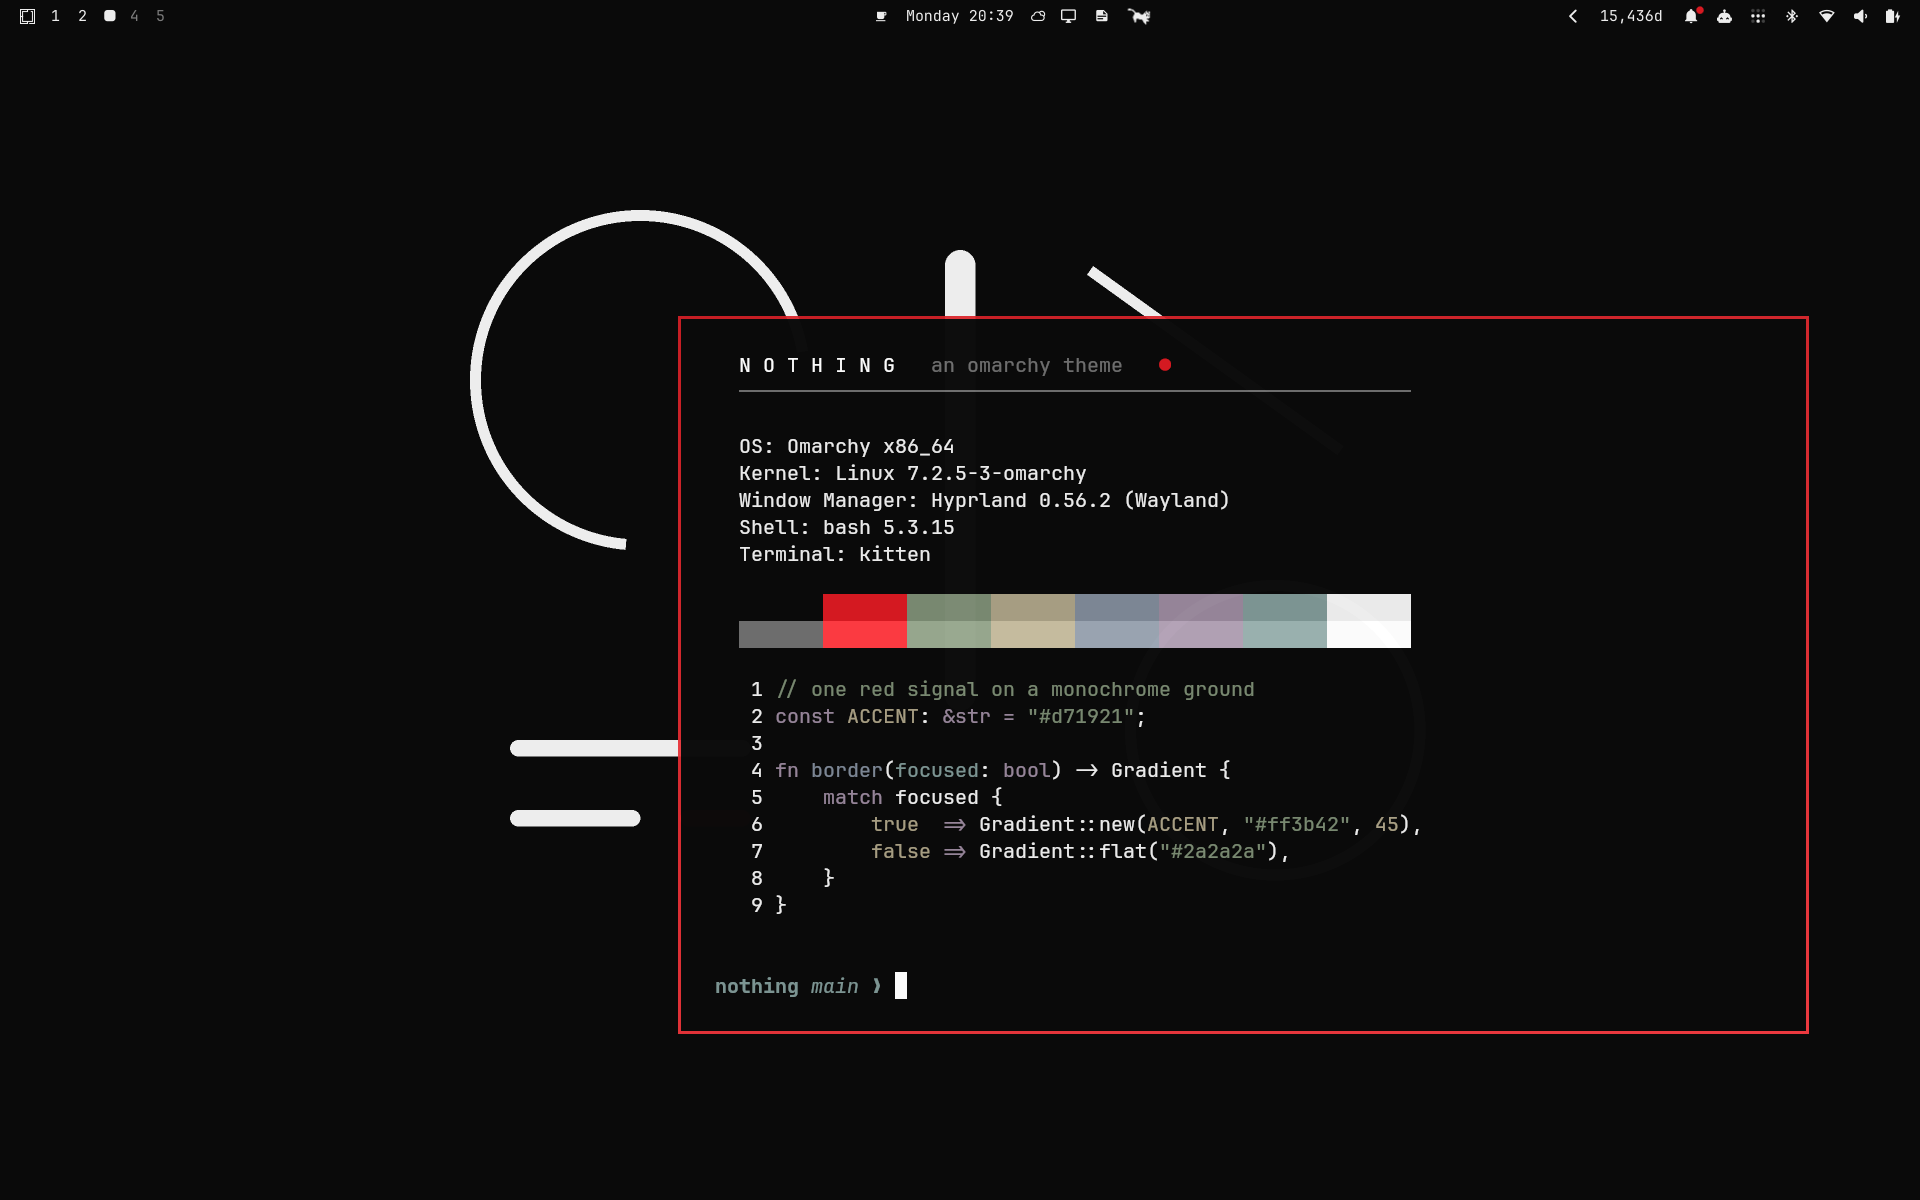
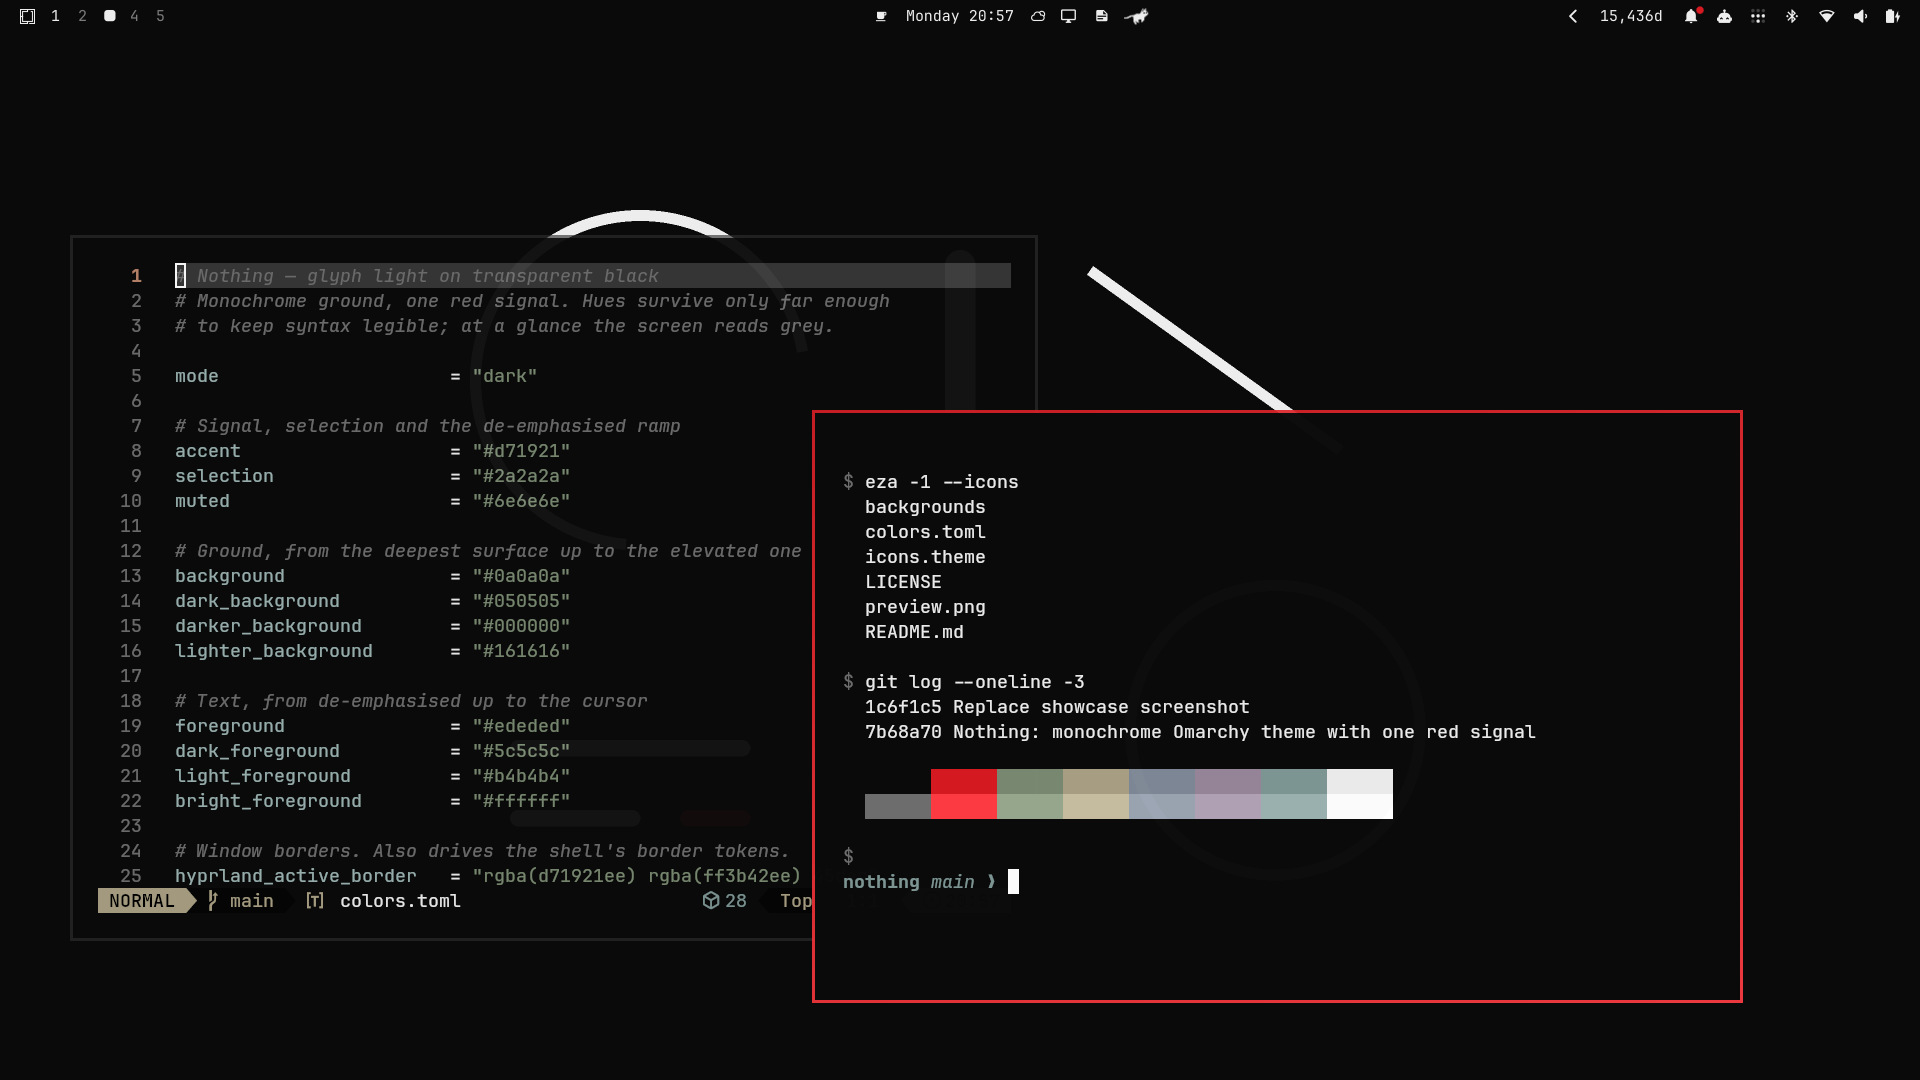
Add unlock screen and update showcase screenshot
New preview.png is the gallery shot: 16:9, editor open on the theme's own
colors.toml beside a terminal, over the glyph wallpaper. Replaces the
terminal-only 16:10 capture, and follows omarchy-site's guidance that a
showcase show a real session rather than an empty desktop.

Adds unlock.png — a transparent dot-matrix wordmark with the red dot as the
period — and the preview-unlock.png that goes with it, generated by
`omarchy plymouth preview`. This lists the theme under Style > Unlock and
styles the Plymouth boot splash. Verified: `omarchy plymouth list` now
reports `nothing`.

diff --git a/README.md b/README.md
@@ -69,6 +69,19 @@ Files are numbered because Omarchy sorts them lexically.
 Extra backgrounds of your own go in `~/.config/omarchy/backgrounds/nothing/` —
 they join the rotation without touching the theme.
 
+## Unlock screen
+
+`unlock.png` is a transparent dot-matrix wordmark, with the red dot as the
+period. It styles the Plymouth boot splash and the unlock screen, and puts the
+theme under _Style > Unlock_ in the Omarchy menu:
+
+```bash
+omarchy plymouth set by theme nothing
+```
+
+`preview-unlock.png` is the accompanying preview, generated with
+`omarchy plymouth preview`.
+
 ## Notes
 
 - Pairs well with a dot-matrix display font (Nothing ships NType82 / Ndot).
